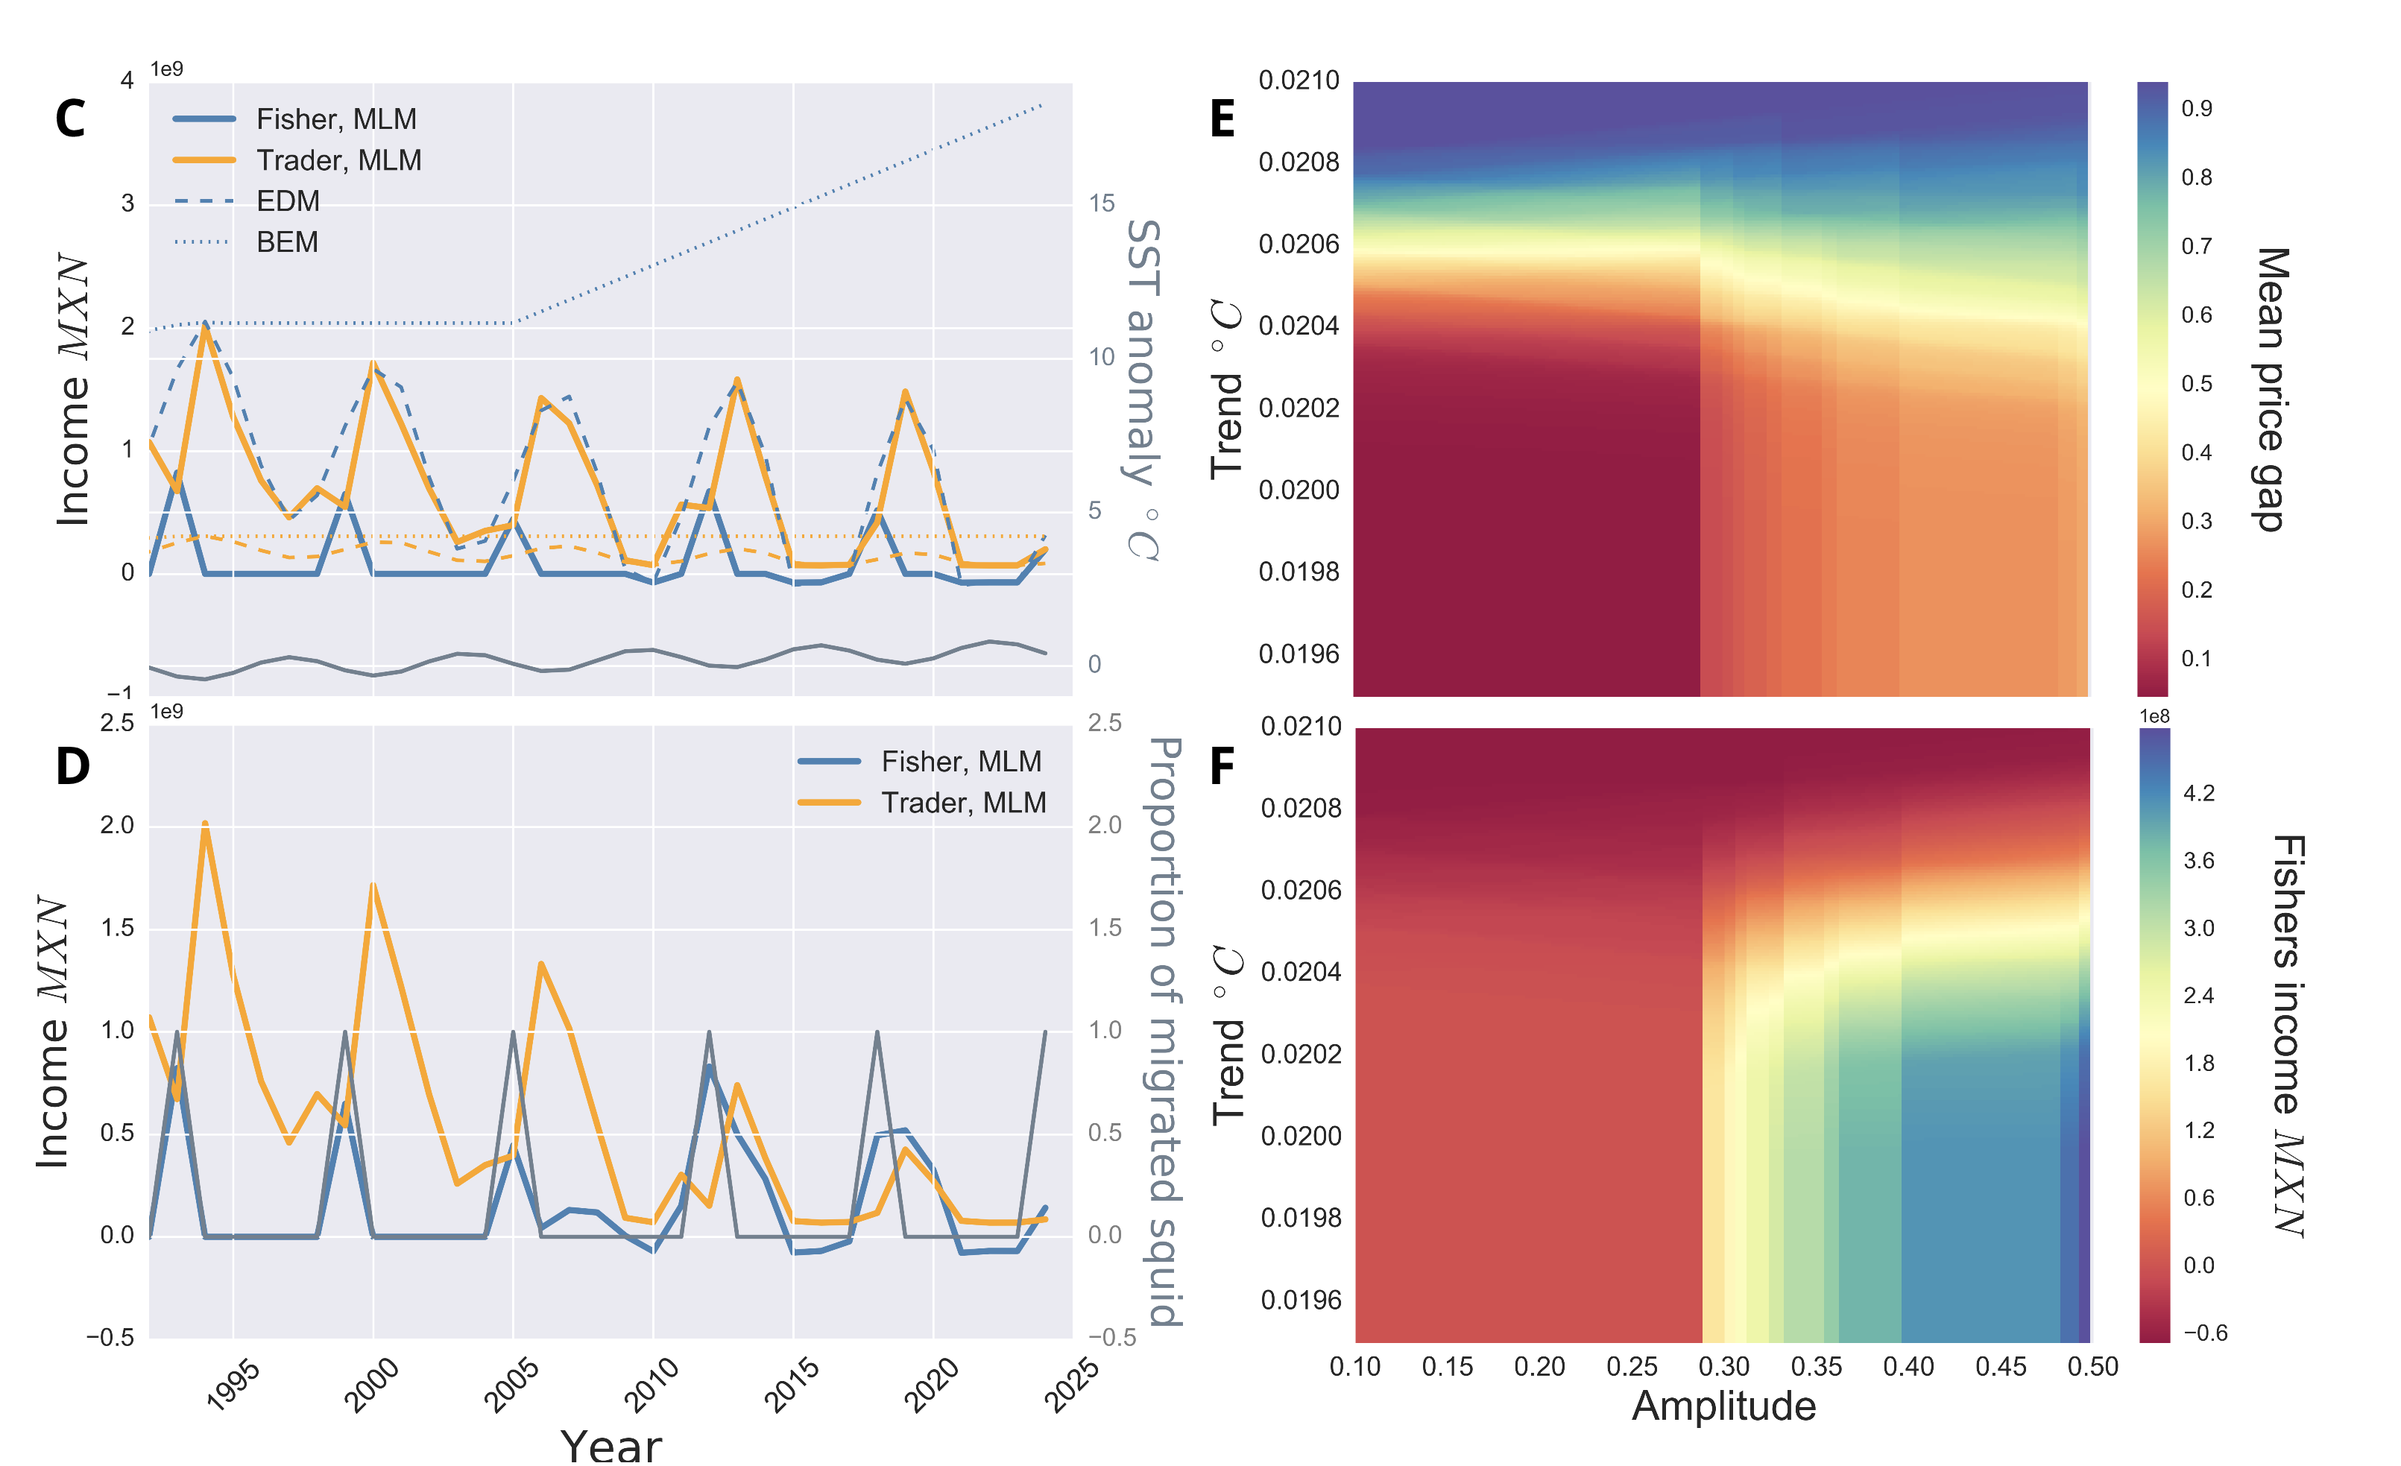
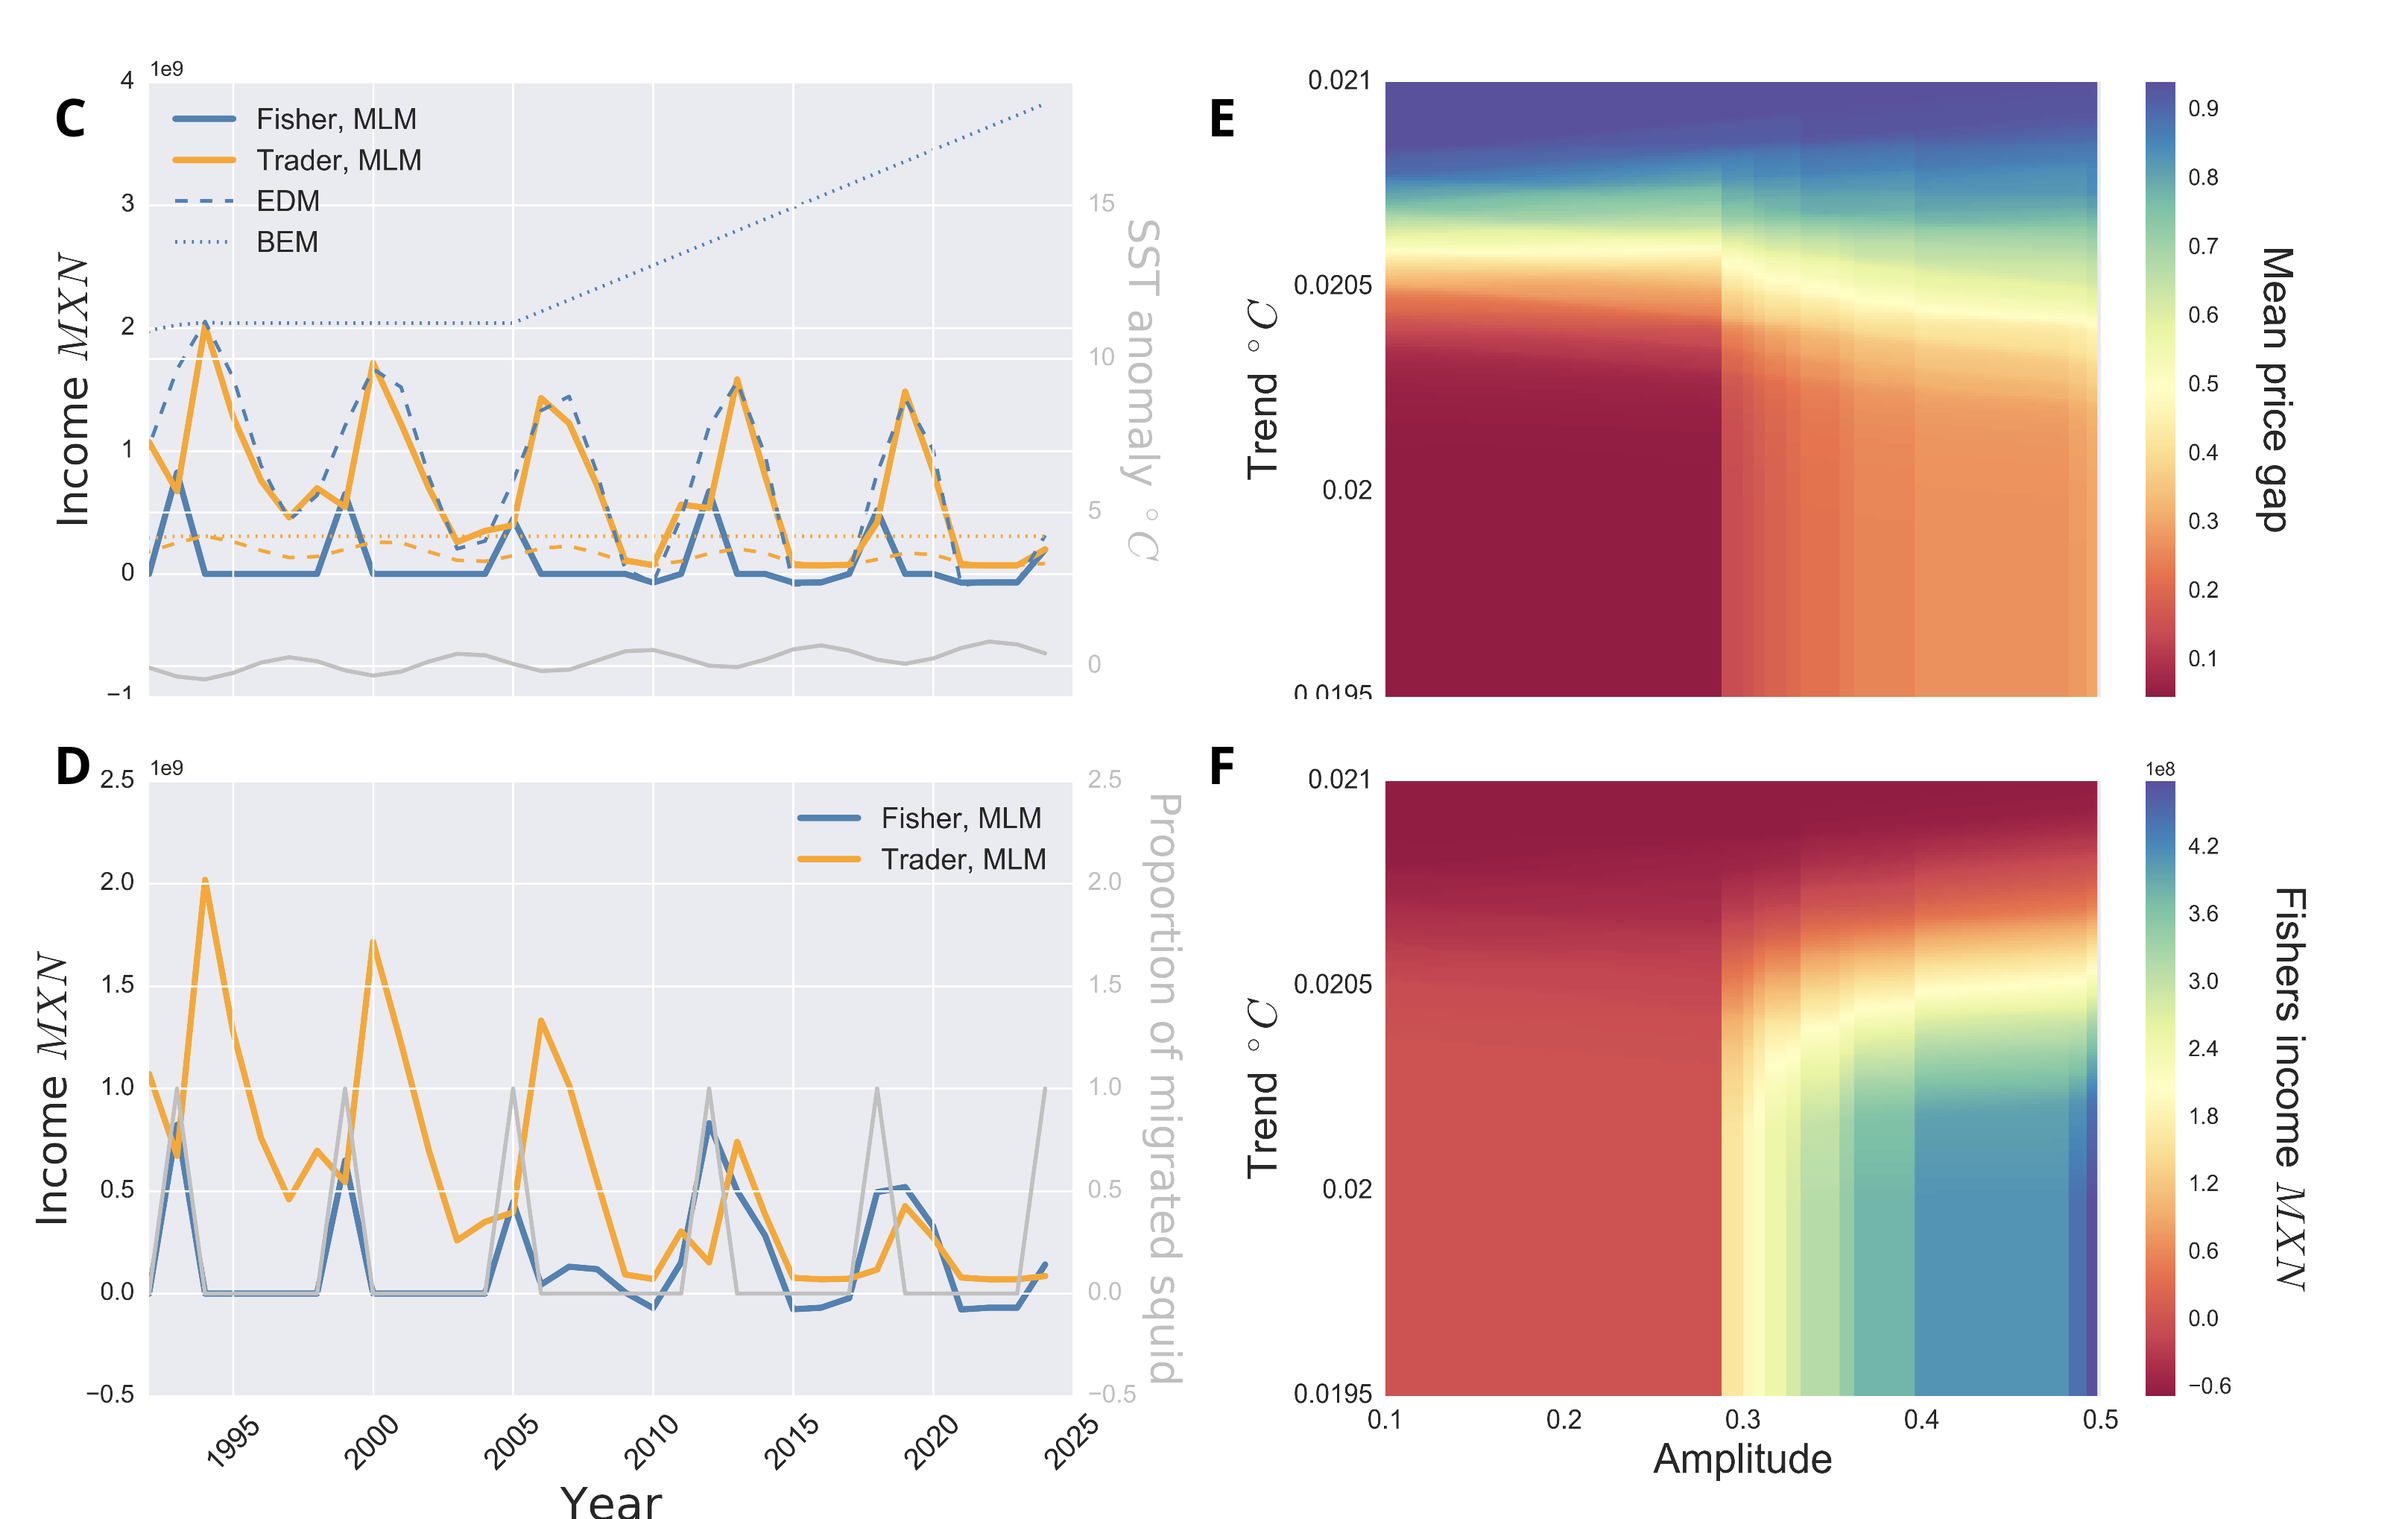
corrected q_t calc to Tmax-T im zaehler

diff --git a/CODE/timeseries.py b/CODE/timeseries.py
@@ -78,7 +78,7 @@ for t in np.arange(0,tmax): # this assumes that by 2025 temperatures are high so
 Tmin = min(T)
 Tmax = max(T)
 
-q = qc-(qc* ((T-Tmin)/(Tmax-Tmin)))
+q = qc-(qc* ((Tmax-T)/(Tmax-Tmin)))
 
 ### continuous migration
 xo = np.linspace(1991,2025,1000) # 100 linearly spaced numbers, time
@@ -121,7 +121,7 @@ def model(a0, a1, a2, a3, k, l, qc, Tmin, Tmax, Mmax, Mmin, alpha, delta, g, K, 
         # mantle length and catchability
         if mantle == 0:
             if ml[t] == 1:
-                q[t] = qc - (qc* ((T[t]-Tmin)/(Tmax-Tmin)))
+                q[t] = qc - (qc* ((Tmax-T[t])/(Tmax-Tmin)))
             else:
                 ML[t]= ml[t]
                 q[t]= 0.0018 *ML[t] - 0.0318
@@ -384,7 +384,7 @@ ax1.fill_between(x, highBEM_pf, lowBEM_pf, where = highBEM_pf >= lowBEM_pf, face
 ax1.fill_between(x, highEDM_pf, lowEDM_pf, where = highEDM_pf >= lowEDM_pf, facecolor='sage', alpha= 0.3, zorder = 0)
 # add the second axes using subplot with ML
 ax2 = fig.add_subplot(111, sharex=ax1, frameon=False)
-line5, = ax2.plot(ys, color="dimgrey")
+line5, = ax2.plot(ys, color="silver")
 # x-axis
 ax1.set_xticklabels(np.arange(2001,2016,2), rotation=45, fontsize= 14)
 ax1.set_xlim(10,tmax-2)
@@ -395,10 +395,10 @@ ax2.set_xlabel("Year",fontsize=20, **hfont)
 # y-axis
 ax1.set_ylabel("Prices for fishers $MXN$", rotation=90, labelpad=5, fontsize=20, **hfont)
 ax1.tick_params(axis='y', labelsize=14)
-ax2.set_ylabel("Proportion migrated squid", rotation=270, color='dimgrey', labelpad=22, fontsize=20, **hfont)
+ax2.set_ylabel("Proportion migrated squid", rotation=270, color='silver', labelpad=22, fontsize=20, **hfont)
 ax2.yaxis.tick_right()
 ax2.yaxis.set_label_position("right")
-ax2.tick_params(axis='y', colors='dimgrey', labelsize=12)
+ax2.tick_params(axis='y', colors='silver', labelsize=12)
 ax2.set_ylim(0,1)
 plt.gcf().subplots_adjust(bottom=0.15,right=0.9)
 # legend
@@ -420,7 +420,7 @@ ax1.fill_between(x, highBEM_C, lowBEM_C, where = highBEM_C >= lowBEM_C, facecolo
 ax1.fill_between(x, highEDM_C, lowEDM_C, where = highEDM_C >= lowEDM_C, facecolor='sage', alpha= 0.3, zorder = 0)
 # add the second axes using subplot with ML
 ax2 = fig.add_subplot(111, sharex=ax1, frameon=False)
-line5, = ax2.plot(ml, color="dimgrey")
+line5, = ax2.plot(ml, color="silver")
 # x-axis
 ax1.set_xticklabels(np.arange(2001,2016,2), rotation=45, fontsize= 14)
 ax1.set_xlim(10,tmax-2)
@@ -434,10 +434,10 @@ ax2.yaxis.set_label_position("right")
 ax1.set_ylabel("Catch $tons$", rotation=90, labelpad=5, fontsize=20, **hfont)
 ax1.set_ylim(0,3E5)
 ax1.tick_params(axis='y', labelsize=14)
-ax2.set_ylabel("Mantle length $cm$", rotation=270, color='dimgrey', labelpad=22, fontsize=20, **hfont)
+ax2.set_ylabel("Mantle length $cm$", rotation=270, color='silver', labelpad=22, fontsize=20, **hfont)
 ax2.yaxis.tick_right()
 ax2.yaxis.set_label_position("right")
-ax2.tick_params(axis='y', colors='dimgrey', labelsize=12)
+ax2.tick_params(axis='y', colors='silver', labelsize=12)
 ax2.set_ylim(0,140)
 plt.gcf().subplots_adjust(bottom=0.15,right=0.9)
 # legend
@@ -491,7 +491,7 @@ scipy.stats.pearsonr(VolAll[10:-1], meanEDM_C[10:-1])
 # ax1.fill_between(x, highP, lowP, where = highP >= lowP, facecolor='orange', alpha= 0.3, zorder = 0)
 # # add the second axes using subplot with ML
 # ax2 = fig.add_subplot(111, sharex=ax1, frameon=False)
-# line3, = ax2.plot(ml, color="dimgrey")
+# line3, = ax2.plot(ml, color="silver")
 # # x-axis
 # ax1.set_xticklabels(np.arange(2001,2016,2), rotation=45, fontsize= 12)
 # ax1.set_xlim(10,tmax-2)
@@ -501,7 +501,7 @@ scipy.stats.pearsonr(VolAll[10:-1], meanEDM_C[10:-1])
 # ax2.set_xlabel("Year",fontsize=20, **hfont)
 # # y-axis
 # ax1.set_ylabel("Prices for fishers $MXN$", rotation=90, labelpad=5, fontsize=20, **hfont)
-# ax2.set_ylabel("Mantle length $cm$", rotation=270, color='dimgrey', labelpad=22, fontsize=20, **hfont)
+# ax2.set_ylabel("Mantle length $cm$", rotation=270, color='silver', labelpad=22, fontsize=20, **hfont)
 # plt.gcf().subplots_adjust(bottom=0.15,right=0.9)
 # ax2.yaxis.tick_right()
 # ax2.yaxis.set_label_position("right")
@@ -520,7 +520,7 @@ scipy.stats.pearsonr(VolAll[10:-1], meanEDM_C[10:-1])
 # ax1.fill_between(x, highC, lowC, where = highC >= lowC, facecolor='orange', alpha= 0.3, zorder = 0)
 # # add the second axes using subplot with ML
 # ax2 = fig.add_subplot(111, sharex=ax1, frameon=False)
-# line3, = ax2.plot(ml, color="dimgrey")
+# line3, = ax2.plot(ml, color="silver")
 # # x-axis
 # ax1.set_xticklabels(np.arange(2001,2016,2), rotation=45, fontsize= 12)
 # ax1.set_xlim(10,tmax-2)
@@ -532,7 +532,7 @@ scipy.stats.pearsonr(VolAll[10:-1], meanEDM_C[10:-1])
 # ax2.yaxis.set_label_position("right")
 # # y-axis
 # ax1.set_ylabel("Catch $tons$", rotation=90, labelpad=5, fontsize=20, **hfont)
-# ax2.set_ylabel("Mantle length $cm$", rotation=270, color='dimgrey', labelpad=22, fontsize=20, **hfont)
+# ax2.set_ylabel("Mantle length $cm$", rotation=270, color='silver', labelpad=22, fontsize=20, **hfont)
 # plt.gcf().subplots_adjust(bottom=0.15,right=0.9)
 # # legend
 # plt.legend([line1, line2, line3], ["Prediction", "Data", "Mantle length"], fontsize= 11)

diff --git a/CODE/interventions.py b/CODE/interventions.py
@@ -13,12 +13,11 @@ flag = 1 # 0 = BEM; 1 = MLM, # 2 = EDM
 intervention = 3 # 0 = competition intervention; 1 = demand BEM; 2 = demand EDM; 3= demand MLM
 competition = 0 # 0 = no intervention; 1 = intervention competition
 demand = 1 # 0 = no intervention; 1 = intervention demand
-migrate = 1 # 0 = use discrete function, 1 = use continuous function, 2 = use data
 
-# for competition int: 110101
-# for demand BEM: 011011
-# for demand EDM: 212011
-# for demand MLM: 113011
+# for competition int: 1010
+# for demand BEM: 0101
+# for demand EDM: 2201
+# for demand MLM: 1301
 
 ### Parameters #################################################################
 tmax = 35 # model run, years
@@ -104,7 +103,7 @@ for t in np.arange(0,tmax-10): # this assumes that by 2015 temperatures are high
 Tmin = min(T)
 Tmax = max(T)
 
-q = qc-(qc* ((T-Tmin)/(Tmax-Tmin)))
+q = qc-(qc* ((Tmax-T)/(Tmax-Tmin)))
 
 ### continuous migration
 xo = np.linspace(1991,2025,1000) # 100 linearly spaced numbers, time
@@ -135,7 +134,7 @@ def model(a0, a1, a2, a3, k, l, qc, Tmin, Tmax, Mmax, Mmin, delta, alpha, i_e, t
         time = 1990 +t
 
         # catchability
-        q[t] = qc - (qc* ((T[t]-Tmin)/(Tmax-Tmin)))
+        q[t] = qc - (qc* ((Tmax-T[t])/(Tmax-Tmin)))
 
         if q[t] > qc: # check catchability is in bound and report
             q[t] = qc
@@ -387,7 +386,7 @@ f, = ax1.plot(dBRT, label = "Trader, BEM", color = 'orange', linestyle=':')
 # x-axis
 # add the second axes using subplot with ML
 ax2 = fig.add_subplot(111, sharex=ax1, frameon=False)
-g, = ax2.plot(OUT3, color="slategrey", linewidth=2)
+g, = ax2.plot(OUT3, color="silver", linewidth=2)
 # x-axis
 plt.xlim(2,tmax)
 plt.xlabel("Year",fontsize=22, **hfont)
@@ -397,10 +396,10 @@ ax2.set_xticklabels(np.arange(1990,2035,5), rotation=45, fontsize= 14)
 ax1.set_ylabel("Income $MXN$", rotation=90, labelpad=5, fontsize=20, **hfont)
 ax1.set_ylim(-1E9,4E9)
 ax1.tick_params(axis='y', labelsize=12)
-ax2.set_ylabel("SST anomaly $^\circ C$", rotation=270, color='slategrey', labelpad=22, fontsize=20, **hfont)
+ax2.set_ylabel("SST anomaly $^\circ C$", rotation=270, color='silver', labelpad=22, fontsize=20, **hfont)
 ax2.yaxis.tick_right()
 ax2.yaxis.set_label_position("right")
-ax2.tick_params(axis='y', colors='slategrey', labelsize=12)
+ax2.tick_params(axis='y', colors='silver', labelsize=12)
 ax2.set_ylim(-1,19)
 # adjusting labels and plot size
 plt.gcf().subplots_adjust(bottom=0.15)
@@ -418,7 +417,7 @@ b, = ax1.plot(cRT, label = "Trader, MLM", color = 'orange', linewidth=3)
 # x-axis
 # add the second axes using subplot with ML
 ax2 = fig.add_subplot(111, sharex=ax1, frameon=False)
-c, = ax2.plot(OUT4, color="slategrey", linewidth=2)
+c, = ax2.plot(OUT4, color="silver", linewidth=2)
 # x-axis
 plt.xlim(2,tmax)
 plt.xlabel("Year",fontsize=22, **hfont)
@@ -428,10 +427,10 @@ ax2.set_xticklabels(np.arange(1990,2035,5), rotation=45, fontsize= 14)
 ax1.set_ylabel("Income $MXN$", rotation=90, labelpad=5, fontsize=20, **hfont)
 ax1.set_ylim(-.5E9,2.5E9)
 ax1.tick_params(axis='y', labelsize=12)
-ax2.set_ylabel("Proportion of migrated squid", rotation=270, color='slategrey', labelpad=22, fontsize=20, **hfont)
+ax2.set_ylabel("Proportion of migrated squid", rotation=270, color='silver', labelpad=22, fontsize=20, **hfont)
 ax2.yaxis.tick_right()
 ax2.yaxis.set_label_position("right")
-ax2.tick_params(axis='y', colors='slategrey', labelsize=12)
+ax2.tick_params(axis='y', colors='silver', labelsize=12)
 ax2.set_ylim(-0.5,2.5)
 # adjusting labels and plot size
 plt.gcf().subplots_adjust(bottom=0.15)

diff --git a/CODE/parameter_sweep.py b/CODE/parameter_sweep.py
@@ -88,7 +88,7 @@ for t in np.arange(0,tmax-10): # this assumes that by 2015 temperatures are high
 Tmin = min(T)
 Tmax = max(T)
 
-q = qc-(qc* ((T-Tmin)/(Tmax-Tmin)))
+q = qc-(qc* ((Tmax-T)/(Tmax-Tmin)))
 
 ### continuous migration
 xo = np.linspace(1991,2025,1000) # 100 linearly spaced numbers, time
@@ -146,7 +146,7 @@ def model(a0, a1, a2, a3, Tmin, Tmax, Mmin, Mmax, qc, delta, g, K, h1, h2, gamma
         T[t]= a0 +a1 *(t+1990) +a2 *np.cos(t+1990) + a3 *np.sin(t+1990)
 
         # catchability (mantle length)
-        q[t] = qc - (qc* ((T[t]-Tmin)/(Tmax-Tmin)))
+        q[t] = qc - (qc* ((Tmax-T[t])/(Tmax-Tmin)))
 
         if q[t] > qc: # check catchability is in bound and report
             q[t] = qc
